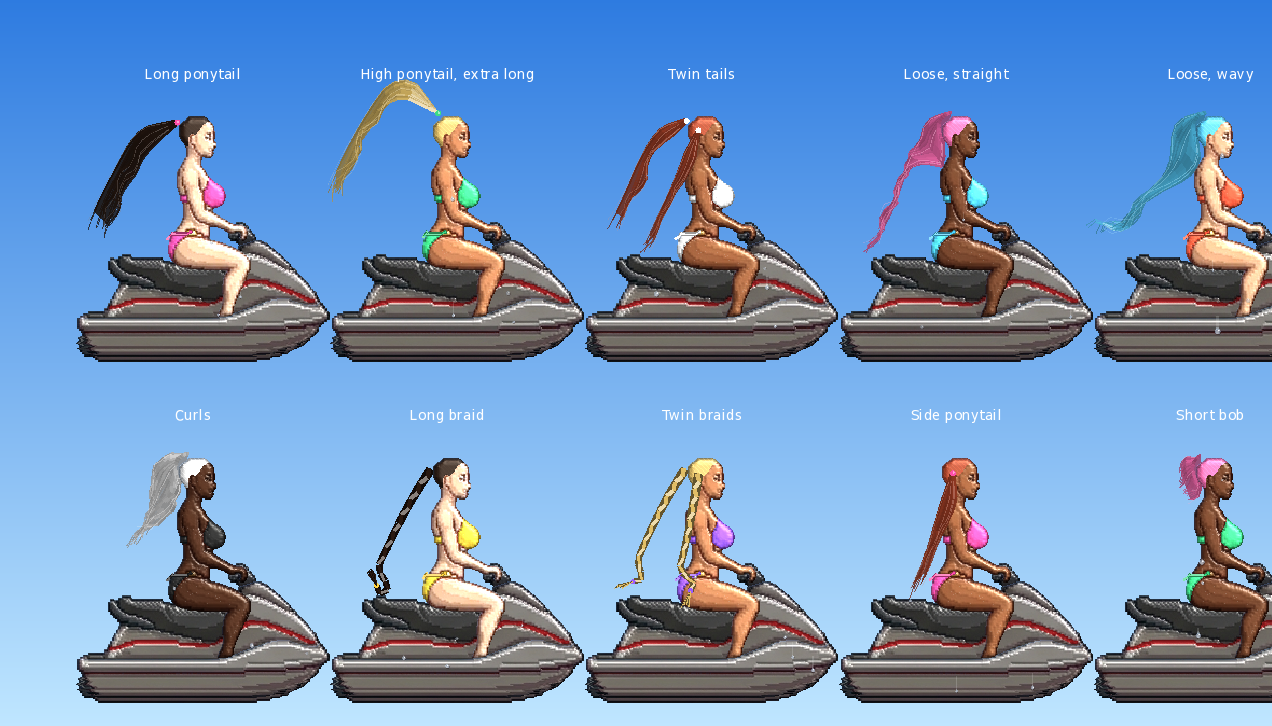
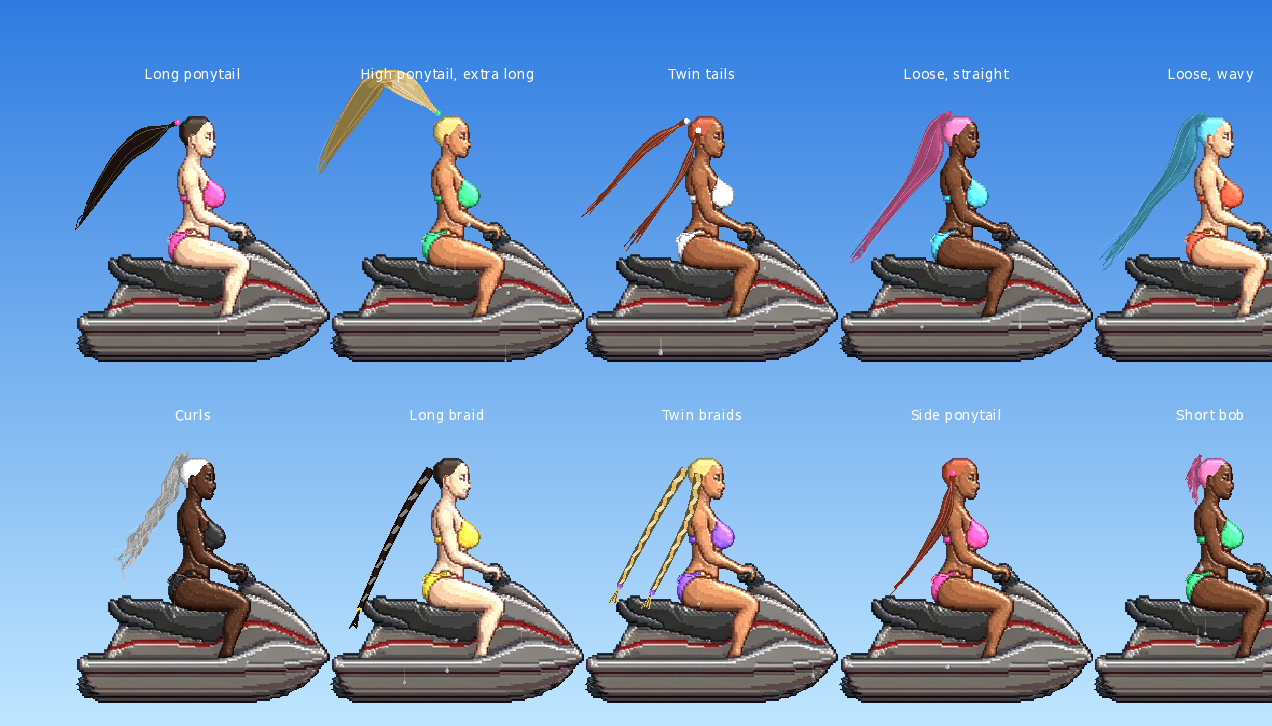
Divaverse 0.12.0: hair weight, from measurements
Fixed-direction root hold instead of a feedback rest shape (resting jitter 32 px
-> 1 px), equal-mass length constraints (no whip over the head on a hop), less
drag per unit of weight with higher gravity, eased collisions, curls drawn
around the simulated strand, thickness profile and opaque mass.

Claude-Session: https://claude.ai/code/session_01Eo8YecRa9dH6NsL1SwKCKJ

diff --git a/Apps/Player/src/WetRash.cpp b/Apps/Player/src/WetRash.cpp
@@ -690,16 +690,16 @@ const int HG = 12, HN = 18, HSTYLES = 10, TN = 6, TMAX = 8;
 // curl / curlF the rest curvature (radians per segment, and how fast it alternates), drag how much the air takes hold, dir the angle it leaves the head at (0 back, pi/2 down).
 struct HairStyle { const wchar_t* name; int root, groups, g, nodes; float seg, vol, stiffRoot, stiff, curl, curlF, drag, width, dir; };
 const HairStyle kStyle[HSTYLES] = {
-    { L"Long ponytail",             0, 1, 8, 17, 9.4f, 3.2f, 0.50f, 0.008f, 0,     0,    1.00f, 2.1f, 0.45f },
-    { L"High ponytail, extra long", 1, 1, 8, 18, 11.0f, 3.2f, 0.55f, 0.008f, 0,     0,    1.00f, 2.1f, -0.70f },
-    { L"Twin tails",                2, 2, 4, 17, 8.8f, 3.6f, 0.45f, 0.008f, 0,     0,    1.00f, 2.1f, 0.55f },
-    { L"Loose, straight",           3, 1, 12, 18, 10.2f, 0.9f, 0.40f, 0.008f, 0,     0,    1.00f, 2.2f, 0.9f },
-    { L"Loose, wavy",               3, 1, 12, 18, 10.6f, 1.0f, 0.40f, 0.10f, 0.40f, 0.9f, 0.95f, 2.2f, 0.9f },
-    { L"Curls",                     3, 1, 12, 18, 6.6f, 1.3f, 0.40f, 0.26f, 0.95f, 1.6f, 0.80f, 2.3f, 0.9f },
-    { L"Long braid",                4, 1, 1, 18, 8.4f, 0,    0.40f, 0.06f, 0,     0,    0.50f, 1.5f, 1.0f },
-    { L"Twin braids",               4, 2, 1, 17, 7.6f, 0,    0.40f, 0.06f, 0,     0,    0.50f, 1.5f, 1.0f },
-    { L"Side ponytail",             6, 1, 6, 17, 8.2f, 3.0f, 0.45f, 0.008f, 0.10f, 0.7f, 0.90f, 2.1f, 1.45f },
-    { L"Short bob",                 5, 1, 12,  7, 5.0f, 0.7f, 0.45f, 0.06f, 0,     0,    0.80f, 2.2f, 1.3f } };
+    { L"Long ponytail",             0, 1, 8, 17, 9.4f, 3.0f, 0.45f, 0.02f, 0,     0,    1.00f, 2.1f, 0.45f },
+    { L"High ponytail, extra long", 1, 1, 8, 18, 11.0f, 3.0f, 0.60f, 0.02f, 0,     0,    1.00f, 2.1f, -0.70f },
+    { L"Twin tails",                2, 2, 4, 17, 8.8f, 3.4f, 0.40f, 0.02f, 0,     0,    1.00f, 2.1f, 0.55f },
+    { L"Loose, straight",           3, 1, 12, 18, 10.2f, 0.9f, 0.50f, 0.02f, 0,     0,    1.00f, 2.2f, 0.9f },
+    { L"Loose, wavy",               3, 1, 12, 18, 10.6f, 1.0f, 0.50f, 0.03f, 0.40f, 0.9f, 0.95f, 2.2f, 0.9f },
+    { L"Curls",                     3, 1, 12, 18, 7.4f, 1.3f, 0.50f, 0.05f, 0.95f, 1.6f, 0.80f, 2.3f, 0.9f },
+    { L"Long braid",                4, 1, 1, 18, 8.4f, 0,    0.40f, 0.10f, 0,     0,    0.50f, 1.5f, 1.0f },
+    { L"Twin braids",               4, 2, 1, 17, 7.6f, 0,    0.40f, 0.10f, 0,     0,    0.50f, 1.5f, 1.0f },
+    { L"Side ponytail",             6, 1, 6, 17, 8.2f, 3.0f, 0.40f, 0.02f, 0.10f, 0.7f, 0.90f, 2.1f, 1.45f },
+    { L"Short bob",                 5, 1, 12,  7, 5.0f, 0.7f, 0.55f, 0.08f, 0,     0,    0.80f, 2.2f, 1.3f } };
 struct Bead { float x, y, vy, size, stick, age, y0; int id; };
 struct Wound { float x = 0, y = 0, t = 0; };
 struct SRider { float x = 0, hop = 0, vy = 0, duck = 0, throwT = -1, flash = 0, cool = 0, hp = 3, out = 0, aiT = 1, aiX = 0, face = 1, wet = 0.3f, jy = 0, jvy = 0, jx = 0, jvx = 0, py = 0, pvy = 0, bleed = 0, ays = 0, ha = 0.5f, hav = 0; bool threw = false, bot = true, pinit = false; float soak = 0; std::vector<Bead> beads;
@@ -831,20 +831,23 @@ void SideDraw(SRider& r, float sx, float base, float S, float rot, bool sim) {
         auto dn = [&](V2 p) { float x = p.x - 117, y = p.y - 215; return V2{ 117 + x * cr + y * sr, 215 - x * sr + y * cr }; };            // upright -> sprite
         auto alphaAt = [&](int k, V2 s) { const int* b = kSdFrames[k].bbox; int xi = (int)std::floor(s.x) - b[0], yi = (int)std::floor(s.y) - b[1], w = b[2] - b[0]; const auto& am = r.spr.am[k];
             return xi >= 0 && yi >= 0 && xi < w && yi < b[3] - b[1] && (size_t)(yi * w + xi) < am.size() && am[(size_t)yi * w + xi] > 128; };
-        auto collide = [&](V2& p, V2& q, float m) { V2 s = dn(p); /* m: how far off the surface this strand rides, so the layers stack into a thickness */ bool hit = false; float ex = s.x - hx, ey = s.y - hy, e = std::sqrt(ex * ex + ey * ey);
+        static float hp[8] = { 1.0f, 0.03f, 0.0020f, 880, 2800, 25, 0.5f, 6 }; static bool hpInit = false;        // linear drag, internal friction, quadratic drag, headwind, gravity, root-motion smoothing rate
+        if (!hpInit) { hpInit = true; if (const wchar_t* e = _wgetenv(L"DIVAVERSE_QA_HP")) swscanf(e, L"%f,%f,%f,%f,%f,%f,%f,%f", &hp[0], &hp[1], &hp[2], &hp[3], &hp[4], &hp[5], &hp[6], &hp[7]); }
+        static int dbg = _wgetenv(L"DIVAVERSE_QA_HAIR") ? _wtoi(_wgetenv(L"DIVAVERSE_QA_HAIR")) : 0;     // QA: 1 no collision, 2 no volume, 4 still air, 8 no rest shape
+        auto collide = [&](V2& p, V2& q, float m) { if (dbg & 1) return; V2 s = dn(p); /* m: how far off the surface this strand rides, so the layers stack into a thickness */ bool hit = false; float ex = s.x - hx, ey = s.y - hy, e = std::sqrt(ex * ex + ey * ey);
             if (e < hr * 0.97f + m * 0.6f && e > 1e-3f) { s.x = hx + ex / e * (hr * 0.97f + m * 0.6f); s.y = hy + ey / e * (hr * 0.97f + m * 0.6f); hit = true; }
-            if (alphaAt(f, { s.x + m, s.y })) for (int k = 1; k <= 22; ++k) if (!alphaAt(f, { s.x + m - k, s.y })) { s.x -= k - 0.4f; hit = true; break; }                     // off her back: out toward behind her
-            if (alphaAt(SD_BODY, s)) for (int k = 1; k <= 12; ++k) if (!alphaAt(SD_BODY, { s.x, s.y - k })) { s.y -= k - 0.4f; hit = true; break; }         // and it lies on the seat
+            if (alphaAt(f, { s.x + m, s.y })) for (int k = 1; k <= 22; ++k) if (!alphaAt(f, { s.x + m - k, s.y })) { s.x -= std::min(k - 0.4f, 3.f); hit = true; break; }                     // off her back: out toward behind her
+            if (alphaAt(SD_BODY, s)) for (int k = 1; k <= 12; ++k) if (!alphaAt(SD_BODY, { s.x, s.y - k })) { s.y -= std::min(k - 0.4f, 3.f); hit = true; break; }         // and it lies on the seat
             if (hit) { V2 n = up(s); q = { n.x - (p.x - q.x) * 0.55f, n.y - (p.y - q.y) * 0.55f }; p = n; } };                                             // friction where it touches
         V2 O = { r.face * sx / S, (base - r.hop) / S }; if (!r.hOk || r.istyle != r.look.style) { r.hO = O; r.hOk = true; r.init = false; r.istyle = r.look.style; for (bool& b : r.tinit) b = false; }
-        V2 dO = { std::clamp(O.x - r.hO.x, -30.f, 30.f), std::clamp(O.y - r.hO.y, -30.f, 30.f) }; r.hO = O;
+        V2 Os = { r.hO.x + (O.x - r.hO.x) * std::min(1.f, dt * hp[5]), r.hO.y + (O.y - r.hO.y) * std::min(1.f, dt * hp[5]) }, dO = { std::clamp(Os.x - r.hO.x, -30.f, 30.f), std::clamp(Os.y - r.hO.y, -30.f, 30.f) * 0.6f }; r.hO = Os;      // her motion reaches the hair through her neck, not as a hard step
         const int NG = hs.groups * hs.g, nsub = std::clamp((int)std::lround(dt * 120), 1, 4); const float h = dt / nsub, gustF = 0.72f + 0.56f * N2(G.t * 0.45f + r.x * 3, 5.f);                 // slow gusts on top of the headwind
-        const float air = -(260 + G.gust * 330 + (G.weather == 3 ? 220.f : G.weather == 2 ? 100.f : 0)) * gustF, flut = 60.f + 45 * G.weather;
+        const float air = -(hp[3] + G.gust * 700 + (G.weather == 3 ? 750.f : G.weather == 2 ? 340.f : 0)) * gustF, flut = 170.f + 80 * G.weather;
         auto rootOf = [&](int g, V2& a, float& th) { int grp = g / hs.g; float u = hs.g > 1 ? (g % hs.g) / (float)(hs.g - 1) : 0.5f;
             switch (hs.root) {
-            case 0: a = { hx - hr * 0.80f, hy - hr * 0.30f + (u - 0.5f) * 2.4f }; th = hs.dir + (u - 0.5f) * 0.55f; break;
-            case 1: a = { hx - hr * 0.42f + (u - 0.5f) * 1.6f, hy - hr * 0.86f }; th = hs.dir + (u - 0.5f) * 0.5f; break;
-            case 2: if (grp) { a = { hx - hr * 0.05f, hy + hr * 0.18f + (u - 0.5f) * 2 }; th = 1.25f + (u - 0.5f) * 0.4f; } else { a = { hx - hr * 0.78f, hy - hr * 0.42f + (u - 0.5f) * 2.4f }; th = hs.dir + (u - 0.5f) * 0.5f; } break;
+            case 0: a = { hx - hr * 0.80f, hy - hr * 0.30f + (u - 0.5f) * 2.4f }; th = hs.dir + (u - 0.5f) * 0.22f; break;
+            case 1: a = { hx - hr * 0.42f + (u - 0.5f) * 1.6f, hy - hr * 0.86f }; th = hs.dir + (u - 0.5f) * 0.22f; break;
+            case 2: if (grp) { a = { hx - hr * 0.05f, hy + hr * 0.18f + (u - 0.5f) * 2 }; th = 1.25f + (u - 0.5f) * 0.4f; } else { a = { hx - hr * 0.78f, hy - hr * 0.42f + (u - 0.5f) * 2.4f }; th = hs.dir + (u - 0.5f) * 0.22f; } break;
             case 3: { float an = (96 + 128 * u) * PI / 180; a = { hx + std::cos(an) * hr * 0.92f, hy - std::sin(an) * hr * 0.92f }; th = std::min(an - PI / 2, 1.75f); } break;                   // leaves along the scalp, toward the nape
             case 4: if (grp) { a = { hx - hr * 0.02f, hy + hr * 0.34f }; th = 1.4f; } else { a = { hx - hr * 0.86f, hy + hr * 0.04f }; th = 1.0f; } break;
             case 6: a = { hx - hr * 0.05f + (u - 0.5f) * 2.5f, hy + hr * 0.30f }; th = hs.dir + (u - 0.5f) * 0.35f; break;
@@ -854,31 +857,35 @@ void SideDraw(SRider& r, float sx, float base, float S, float rot, bool sim) {
         // swings like a pendulum), while the headwind leans it back and a gust takes hold hard. Neighbouring nodes share a little velocity, which is the strand's internal friction.
         auto integ = [&](V2* p, V2* q, int n, float kq, float grav) { V2 pv = { 0, 0 };
             for (int i = 1; i < n; ++i) { p[i].x -= dO.x / nsub; p[i].y -= dO.y / nsub; q[i].x -= dO.x / nsub; q[i].y -= dO.y / nsub;                                                         // the rider moved; the hair has not yet
-                V2 v = { (p[i].x - q[i].x) / h, (p[i].y - q[i].y) / h }, v0 = v; if (i > 1) { v.x += (pv.x - v.x) * 0.12f; v.y += (pv.y - v.y) * 0.12f; } pv = v0; float t = i / (float)(n - 1);
+                V2 v = { (p[i].x - q[i].x) / h, (p[i].y - q[i].y) / h }, v0 = v; if (i > 1) { v.x += (pv.x - v.x) * hp[1]; v.y += (pv.y - v.y) * hp[1]; } pv = v0; float t = i / (float)(n - 1);
                 float wx = air + flut * t * (N2((p[i].x + O.x) * 0.03f + G.t * 3.1f, p[i].y * 0.03f + r.x * 7) - 0.5f) * 2, wy = flut * 0.6f * t * (N2((p[i].x + O.x) * 0.03f + 31 + G.t * 2.7f, p[i].y * 0.03f - 17) - 0.5f) * 2;
-                float rx = wx - v.x, ry = wy - v.y, k = kq * std::sqrt(rx * rx + ry * ry) + 0.45f; q[i] = p[i]; p[i].x += v.x * h + k * rx * h * h; p[i].y += v.y * h + (k * ry + grav) * h * h; } };
-        auto shape = [&](V2* p, V2* q, int n, V2 root, float th0, float seg, float stiffRoot, float stiff, float curl, float curlF, float ph, bool col, float m) {
-            p[0] = root; V2 d0 = { -std::cos(th0), std::sin(th0) };
-            for (int i = 1; i < n; ++i) { float t = i / (float)(n - 1); V2 pd = d0; if (i > 1) { float dx = p[i - 1].x - p[i - 2].x, dy = p[i - 1].y - p[i - 2].y, l = std::sqrt(dx * dx + dy * dy) + 1e-4f; pd = { dx / l, dy / l }; }
-                float k = i > 1 ? curl * std::sin(i * curlF + ph) : 0, ck = std::cos(k), sk = std::sin(k), st = stiffRoot * std::max(0.f, 1 - (i - 1) / 3.f) + stiff;                 // the root direction is held for the first few segments only; after that it is the style's own springiness
-                p[i].x += (p[i - 1].x + (pd.x * ck - pd.y * sk) * seg - p[i].x) * st; p[i].y += (p[i - 1].y + (pd.x * sk + pd.y * ck) * seg - p[i].y) * st;
+                if (dbg & 4) { wx = air / gustF; wy = 0; } float rx = wx - v.x, ry = wy - v.y, k = kq * std::sqrt(rx * rx + ry * ry) + hp[0]; q[i] = p[i]; p[i].x += v.x * h + k * rx * h * h; p[i].y += v.y * h + (k * ry + grav) * h * h; } };
+        // Rest shape. Measured: steering each node toward the continuation of the previous segment feeds back along the chain and whips a resting ponytail through
+        // +-30 px with nothing happening. So: only the first three nodes are steered, toward a fixed direction (where the hair leaves the head or its tie), and further
+        // down the strand is free except that it may not fold sharper than its style allows. Curl is not simulated at all; it is drawn around the simulated strand.
+        auto shape = [&](V2* p, V2* q, int n, V2 root, float th0, float seg, float stiffRoot, float stiff, bool col, float m) {
+            p[0] = root; V2 d0 = { -std::cos(th0), std::sin(th0) }; const float hold[8] = { 0, 1.f, 0.5f, 0.3f, 0.18f, 0.10f, 0.05f, 0.02f }, minFold = std::min(0.97f, 0.72f + stiff * 2.2f);
+            for (int i = 1; i < n; ++i) {
+                if (i <= 7 && !(dbg & 8)) { float st = stiffRoot * hold[i];                 // a fixed direction, fading out along the first third: this is what bends the strand into an arc instead of a rod
+                    p[i].x += (p[i - 1].x + d0.x * seg - p[i].x) * st; p[i].y += (p[i - 1].y + d0.y * seg - p[i].y) * st; }
                 float dx = p[i].x - p[i - 1].x, dy = p[i].y - p[i - 1].y, d = std::sqrt(dx * dx + dy * dy) + 1e-4f, c = (d - seg) / d;
-                if (i > 1) { p[i - 1].x += dx * c * 0.12f; p[i - 1].y += dy * c * 0.12f; p[i].x -= dx * c * 0.88f; p[i].y -= dy * c * 0.88f; } else { p[i].x -= dx * c; p[i].y -= dy * c; }
+                if (i > 1) { p[i - 1].x += dx * c * hp[6]; p[i - 1].y += dy * c * hp[6]; p[i].x -= dx * c * (1 - hp[6]); p[i].y -= dy * c * (1 - hp[6]); } else { p[i].x -= dx * c; p[i].y -= dy * c; }
+                if (i > 1 && !(dbg & 8)) { float ex = p[i].x - p[i - 2].x, ey = p[i].y - p[i - 2].y, e = std::sqrt(ex * ex + ey * ey) + 1e-4f, lim = 2 * seg * minFold; if (e < lim) { float k = (lim - e) / e * 0.5f; p[i].x += ex * k; p[i].y += ey * k; } }
                 if (col && i >= 2) collide(p[i], q[i], m); } };
         auto lay = [&](V2* p, V2* q, int n, V2 root, float th0, float seg) { float th = th0 * 0.5f + 0.75f; for (int i = 0; i < n; ++i) p[i] = q[i] = { root.x - std::cos(th) * seg * i, root.y + std::sin(th) * seg * i }; };
         V2 ra[HG]; float rth[HG]; for (int g = 0; g < NG; ++g) { rootOf(g, ra[g], rth[g]); if (!r.init) lay(r.hair[g], r.hairP[g], hs.nodes, ra[g], rth[g], hs.seg); }
         int nt = std::min(fi.nTies, TMAX / 2); V2 ta[TMAX]; for (int k = 0; k < nt * 2; ++k) { ta[k] = up({ fi.ties[k / 2][0], fi.ties[k / 2][1] }); if (!r.tinit[k]) { lay(r.tie[k], r.tieP[k], TN, ta[k], 1.3f + (k & 1) * 0.5f, 2.6f); r.tinit[k] = true; } }
         r.init = true;
         for (int sub = 0; sub < nsub; ++sub) {
-            for (int g = 0; g < NG; ++g) integ(r.hair[g], r.hairP[g], hs.nodes, 0.012f * hs.drag * (1 - 0.3f * wetH), 1750 * (1 + 0.15f * wetH));       // the same gravity the rider hops under, so in the air her hair is weightless against her and only the wind moves it
-            for (int k = 0; k < nt * 2; ++k) integ(r.tie[k], r.tieP[k], TN, 0.028f, 1750);
-            for (int it = 0; it < 3; ++it) {
-                for (int g = 0; g < NG; ++g) shape(r.hair[g], r.hairP[g], hs.nodes, ra[g], rth[g], hs.seg * (1 - 0.05f * (g % 3)), hs.stiffRoot, hs.stiff, hs.curl, hs.curlF, g * 2.1f, !(hs.root == 6 || ((hs.root == 2 || hs.root == 4) && g >= hs.g)), (hs.root == 3 || hs.root == 5 ? (hs.g - 1 - g % hs.g) : (g % hs.g)) * 1.25f);
-                for (int g = 0; g + 1 < NG; ++g) { if ((g + 1) % hs.g == 0) continue;                                                                    // volume: neighbours neither merge nor part
+            for (int g = 0; g < NG; ++g) integ(r.hair[g], r.hairP[g], hs.nodes, hp[2] * hs.drag * (1 - 0.3f * wetH), hp[4] * (1 + 0.15f * wetH));      // heavy against the air: little drag per unit of weight, so it swings and settles instead of drifting
+            for (int k = 0; k < nt * 2; ++k) integ(r.tie[k], r.tieP[k], TN, hp[2] * 3, hp[4]);
+            for (int it = 0; it < (int)hp[7]; ++it) {
+                for (int g = 0; g < NG; ++g) shape(r.hair[g], r.hairP[g], hs.nodes, ra[g], rth[g], hs.seg * (1 - 0.05f * (g % 3)), hs.stiffRoot, hs.stiff, !(hs.root == 6 || ((hs.root == 2 || hs.root == 4) && g >= hs.g)), (hs.root == 3 || hs.root == 5 ? (hs.g - 1 - g % hs.g) * 0.45f : (g % hs.g) * 1.0f));
+                for (int g = 0; g + 1 < NG && !(dbg & 2); ++g) { if ((g + 1) % hs.g == 0) continue;                                                                    // volume: neighbours neither merge nor part
                     for (int i = 1; i < hs.nodes; ++i) { float t = i / (float)(hs.nodes - 1), dmin = hs.vol * (0.25f + 0.75f * t) * (1 - 0.55f * wetH), dmax = dmin * 2.3f + 1; V2& a = r.hair[g][i], &b = r.hair[g + 1][i];
                         float dx = b.x - a.x, dy = b.y - a.y, d = std::sqrt(dx * dx + dy * dy); if (d < 1e-3f) { dx = 0; dy = 1; d = 1; a.y -= 0.01f; } float want = d < dmin ? dmin : d > dmax ? dmax : d;
                         if (want != d) { float c = (want - d) / d * 0.5f; a.x -= dx * c; a.y -= dy * c; b.x += dx * c; b.y += dy * c; } } }
-                for (int k = 0; k < nt * 2; ++k) shape(r.tie[k], r.tieP[k], TN, ta[k], 1.3f + (k & 1) * 0.5f - rot * PI / 180, 2.4f + (k & 1) * 0.6f, 0.22f, 0, 0, 0, 0, true, 0.5f);
+                for (int k = 0; k < nt * 2; ++k) shape(r.tie[k], r.tieP[k], TN, ta[k], 1.3f + (k & 1) * 0.5f - rot * PI / 180, 2.4f + (k & 1) * 0.6f, 0.22f, 0.02f, true, 0.5f);
             }
         }
         r.tieN = nt * 2;
@@ -899,17 +906,20 @@ void SideDraw(SRider& r, float sx, float base, float S, float rot, bool sim) {
             const int K = hs.g > 8 ? 2 : 3, NS = (hs.g - 1) * K + 1; static V2 rs[(HG - 1) * 3 + 1][HN]; int len[(HG - 1) * 3 + 1];
             for (int s = 0; s < NS; ++s) { int g = std::min(s / K, hs.g - 2); float a = (s - g * K) / (float)K; a += (std::round(a) - a) * 0.75f * wetD; V2* A = r.hair[g0 + g], *B = r.hair[g0 + g + 1];
                 float ox = (Hash(s * 7 + 3) - 0.5f) * 3.4f * (1 - 0.6f * wetD), oy = (Hash(s * 13 + 1) - 0.5f) * 3.4f * (1 - 0.6f * wetD); len[s] = std::max(2, (int)((0.78f + 0.22f * Hash(s * 5 + 9)) * (hs.nodes - 1)));
-                for (int i = 0; i < hs.nodes; ++i) { float t = i / (float)(hs.nodes - 1); rs[s][i] = { A[i].x + (B[i].x - A[i].x) * a + ox * t, A[i].y + (B[i].y - A[i].y) * a + oy * t }; } }
+                for (int i = 0; i < hs.nodes; ++i) { float t = i / (float)(hs.nodes - 1); float ai = a + (std::round(a) - a) * t * t * 0.85f, x = A[i].x + (B[i].x - A[i].x) * ai + ox * t * (1 - t * 0.6f), y = A[i].y + (B[i].y - A[i].y) * ai + oy * t * (1 - t * 0.6f);            // strands draw together toward the ends: locks with points
+                    if (i > 0) { float nx = -(A[i].y - A[i - 1].y), ny = A[i].x - A[i - 1].x, l = std::sqrt(nx * nx + ny * ny) + 1e-4f, prof = SStep(0.f, 0.25f, t) * (1 - 0.78f * t * t), w = (s / (float)(NS - 1) - 0.5f) * hs.vol * hs.g * 1.35f * prof * (1 - 0.4f * wetD); x += nx / l * w; y += ny / l * w; }
+                    if (hs.curl > 0 && i > 0) { float nx = -(A[i].y - A[i - 1].y), ny = A[i].x - A[i - 1].x, l = std::sqrt(nx * nx + ny * ny) + 1e-4f, w = hs.curl * 5.5f * (0.25f + 0.75f * t) * std::sin(i * hs.curlF + (s / 3) * 1.9f); x += nx / l * w; y += ny / l * w; }
+                    rs[s][i] = { x, y }; } }
             Color body = Mix(hd, hc, 0.30f);                                                       // the mass under the strands
-            { D2D1_POINT_2F pg[HN * 2]; int np = 0, cutN = std::max(2, (int)(hs.nodes * 0.86f)); V2* A = r.hair[g0], *B = r.hair[g0 + hs.g - 1];                 // one polygon: out along the first guide, back along the last
-                for (int i = 0; i < cutN; ++i) pg[np++] = { A[i].x, A[i].y }; for (int i = cutN - 1; i >= 0; --i) pg[np++] = { B[i].x, B[i].y }; C().Poly(pg, np, Alpha(body, 0.88f)); }
+            { D2D1_POINT_2F pg[HN * 2]; int np = 0, cutN = std::max(2, std::min(len[0], len[NS - 1]));                                                     // opaque, from the outermost strand to the other: the silhouette of the mass
+                for (int i = 0; i <= cutN; ++i) pg[np++] = { rs[0][i].x, rs[0][i].y }; for (int i = cutN; i >= 0; --i) pg[np++] = { rs[NS - 1][i].x, rs[NS - 1][i].y }; C().Poly(pg, np, body); }
             const float Lx = 0.53f * r.face, Ly = -0.85f;                                           // light direction in the sprite's (possibly mirrored) frame
             for (int s = 0; s < NS; ++s) { float sh = (Hash(s * 11 + 2) - 0.5f) * 0.30f, depth = 0.55f + 0.45f * Hash(s * 3 + 7); Color base = Mix(hd, hc, depth);
                 for (int i = 1; i <= len[s]; ++i) { float t = i / (float)(hs.nodes - 1), tl = i / (float)len[s], w = hs.width * 1.45f * (1 - tl * 0.75f) * (1 + 0.35f * wetD);
                     float dx = rs[s][i].x - rs[s][i - 1].x, dy = rs[s][i].y - rs[s][i - 1].y, l = std::sqrt(dx * dx + dy * dy) + 1e-4f, c = (dx * Lx + dy * Ly) / l;                 // strand tangent against the light:
                     float diff = std::sqrt(std::max(0.f, 1 - c * c)), c1 = c + sh, s1 = std::pow(std::max(0.f, 1 - c1 * c1), 46.f), c2 = c - 0.38f + sh * 2, s2 = std::pow(std::max(0.f, 1 - c2 * c2), 12.f);   // a tight white lobe and a broad coloured one, shifted per strand
                     Color col = Mix(Mix(Mix(hd, base, 0.35f + 0.65f * diff), hl, s2 * 0.45f), Hex(0xFFFFFF), s1 * (0.55f + 0.35f * wetD) * depth);
-                    C().Line(rs[s][i - 1].x, rs[s][i - 1].y, rs[s][i].x, rs[s][i].y, Alpha(col, 1 - t * 0.25f), w); } }
+                    C().Line(rs[s][i - 1].x, rs[s][i - 1].y, rs[s][i].x, rs[s][i].y, col, w); } }
             for (int k = 0; k < 4; ++k) { int s = (int)(Hash(k * 17 + 5) * NS) % NS; float oy = (k & 1 ? -1.f : 1.f) * (3 + 3 * Hash(k)) * (1 - wetD);                                   // flyaways
                 for (int i = 2; i <= len[s]; ++i) { float t = i / (float)(hs.nodes - 1), t0 = (i - 1) / (float)(hs.nodes - 1); C().Line(rs[s][i - 1].x, rs[s][i - 1].y + oy * t0 * t0 * 2.2f, rs[s][i].x, rs[s][i].y + oy * t * t * 2.2f, Alpha(hl, 0.5f * (1 - t * 0.6f)), 0.7f); } }
             if (hs.root == 0 || hs.root == 1 || hs.root == 2 || hs.root == 6) { V2 a = r.hair[g0 + hs.g / 2][0]; C().Circle(a.x, a.y, 2.8f, bc); C().Circle(a.x + 0.6f * r.face, a.y - 0.6f, 1.1f, Mix(bc, Hex(0xFFFFFF), 0.5f)); }   // hair tie
@@ -992,7 +1002,8 @@ void SideRender(float W, float H) {
         c.GradRR(RF(0, 0, W, H), 0, Hex(p.skyT), Hex(p.skyB), true); ++n; float S2 = S * 2.1f;
         if (n == 40) r.vy = 760 * S2; if (r.hop > 0 || r.vy != 0) { r.hop += r.vy / 60; r.vy -= 1700 * S2 / 60; if (r.hop <= 0) { r.hop = 0; r.vy = 0; r.wet = 1; } }
         if (n == 100) r.throwT = 0; if (r.throwT >= 0) { r.throwT += 1 / 60.f; if (r.throwT > 0.62f) r.throwT = -1; }
-        SideDraw(r, W * 0.55f, H * 0.86f + std::sin(G.t * 2.1f) * 6 * S2, S2, std::sin(G.t * 1.7f) * 2.5f, true); c.Text(Fmt(L"frame %d", n), RF(20, 16, 300, 30), 22, Hex(0xFFFFFF), 0, true);
+        SideDraw(r, W * 0.55f, H * 0.86f, S2, 0, true); c.Text(Fmt(L"frame %d", n), RF(20, 16, 300, 30), 22, Hex(0xFFFFFF), 0, true);
+        { const HairStyle& hs = kStyle[r.look.style % HSTYLES]; int g = hs.g / 2; V2 a = r.hair[g][0], b = r.hair[g][hs.nodes - 1], m = r.hair[g][hs.nodes / 2]; Log("hairlog %d hop %.1f tip %.1f %.1f mid %.1f %.1f", n, r.hop / S2, b.x - a.x, b.y - a.y, m.x - a.x, m.y - a.y); }
         return; }
     if (SD.sheet) {                                                                                    // QA: every hair style side by side
         c.GradRR(RF(0, 0, W, H), 0, Hex(p.skyT), Hex(p.skyB), true);

diff --git a/Apps/Player/src/App.cpp b/Apps/Player/src/App.cpp
@@ -1001,7 +1001,7 @@ int WINAPI wWinMain(HINSTANCE hi, HINSTANCE, PWSTR, int) {
     SetProcessDpiAwarenessContext(DPI_AWARENESS_CONTEXT_PER_MONITOR_AWARE_V2);   // also in manifest
     CoInitializeEx(nullptr, COINIT_APARTMENTTHREADED);
     LogInit();
-    Log("Divaverse 0.11.0 starting");
+    Log("Divaverse 0.12.0 starting");
     int argc = 0; wchar_t** argv = CommandLineToArgvW(GetCommandLineW(), &argc);
     App app; g_app = &app;
     int rc = app.Run(hi, argc, argv);

diff --git a/CHANGELOG.md b/CHANGELOG.md
@@ -1,5 +1,25 @@
 # Changelog
 
+## 0.12.0 (hair: weight)
+Measured first: --uishot 54 now logs the tip of a guide strand every frame through a rest / hop / landing / throw
+script, and DIVAVERSE_QA_HAIR switches parts of the solver off. Findings and fixes:
+- A resting ponytail was whipping through +-30 px with nothing happening (tip height sd 32 px). Switching the
+  rest-shape term off dropped that to 3 px: steering each node toward the continuation of the previous segment
+  feeds back along the chain. Now only the first seven nodes are steered, toward a fixed direction that fades out,
+  and the rest of the strand is free except for a limit on how sharply it may fold. Resting sd is now about 1 px.
+- A hop made the tip whip over the top of her head. Cause: the length constraint moved the lower node 88 % and
+  the upper 12 %, which is a chain whose mass tapers 7:1 per link, i.e. a bullwhip. Equal masses, six iterations.
+  The tip no longer rises above the root after a landing.
+- Hair drifted like something light. Drag per unit of weight cut to a sixth and gravity raised (2800 px/s^2), with
+  a faster apparent wind so the lean is kept (22 to 41 degrees at rest depending on style); internal friction
+  0.12 -> 0.03 per substep. It now swings and settles in 1.1 to 1.4 s after a landing instead of creeping.
+- Collisions eased out over a few steps instead of teleporting a node up to 22 px (which kicked its neighbours).
+- Her motion reaches the roots through a short low-pass, and only 60 % of the vertical part, so the hair does not
+  go weightless for the length of a hop.
+- Curl is no longer simulated; wavy and curly styles are drawn as waves around the simulated strand.
+- Drawing: strands are spread across the bundle by a profile (nothing at the tie, widest a quarter of the way
+  down, tapering to a point) and gather into locks toward the ends; the mass under them is opaque.
+
 ## 0.11.0 (Spear Run: speed, hair physics, artist fixes)
 - Do-not-tint mask (donttint.psd): the spear, steering column and grips, including the ones painted into the throw
   frames, keep their painted colours whatever the skin tone. Baked into the blue channel of the side mask atlas.
